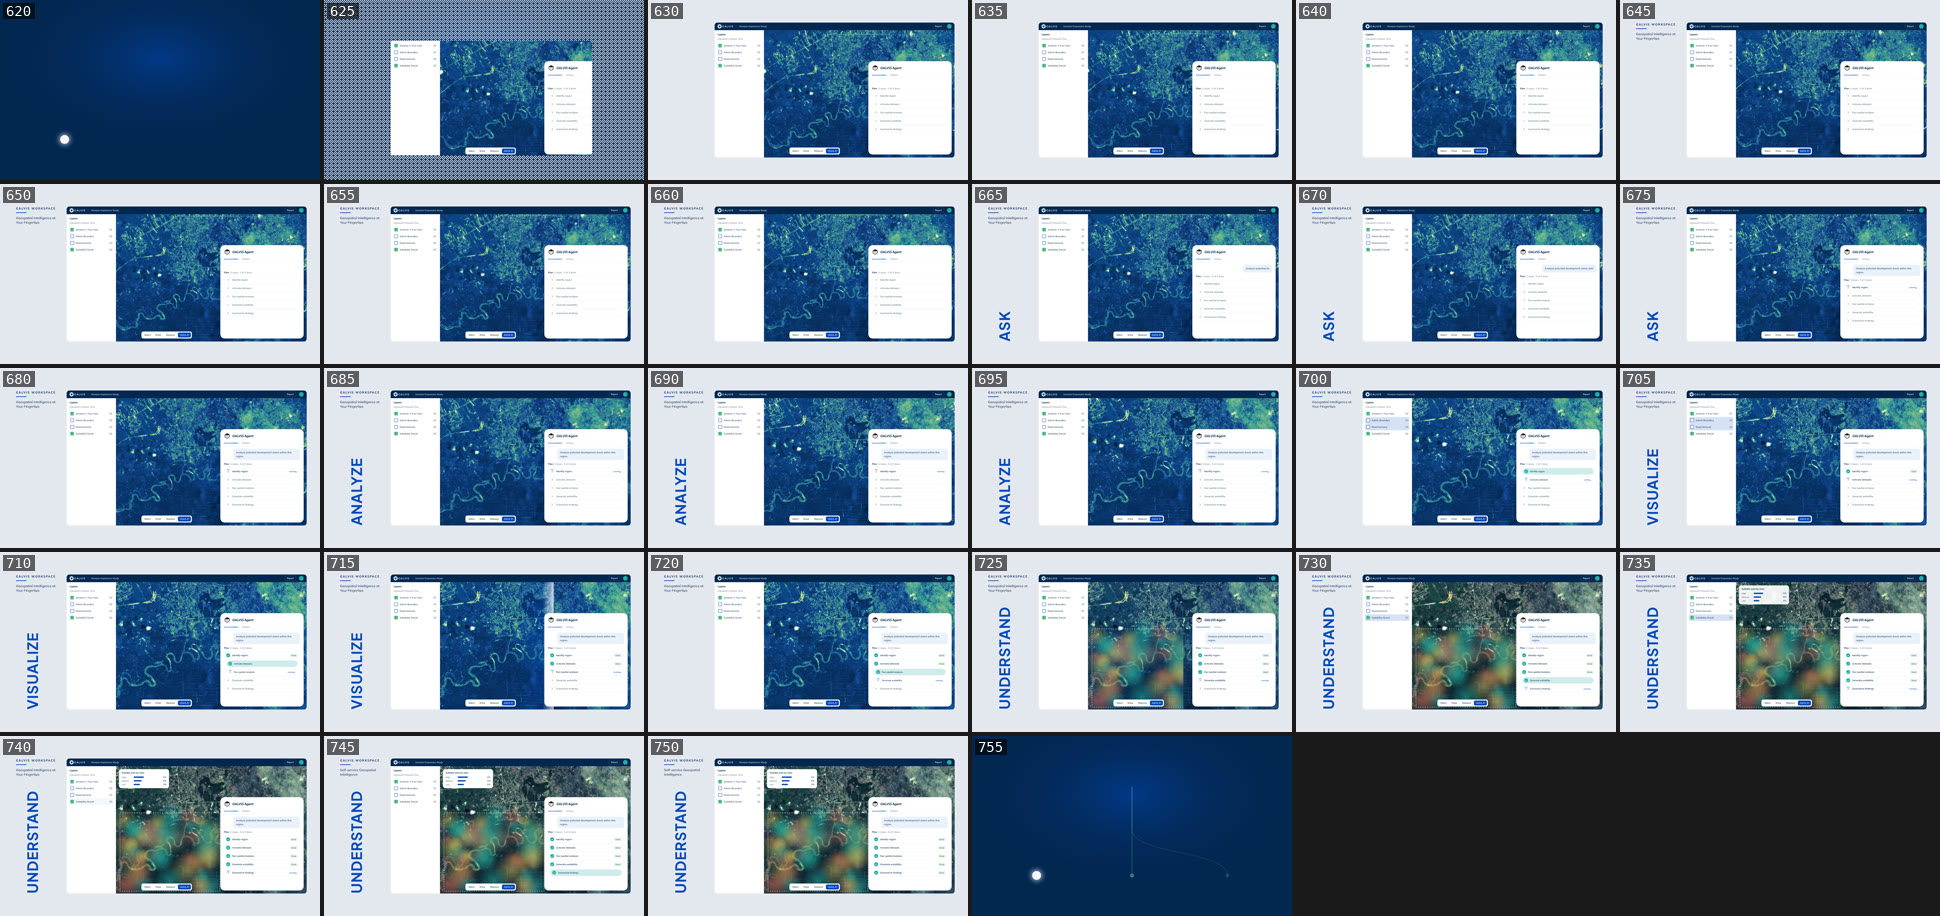
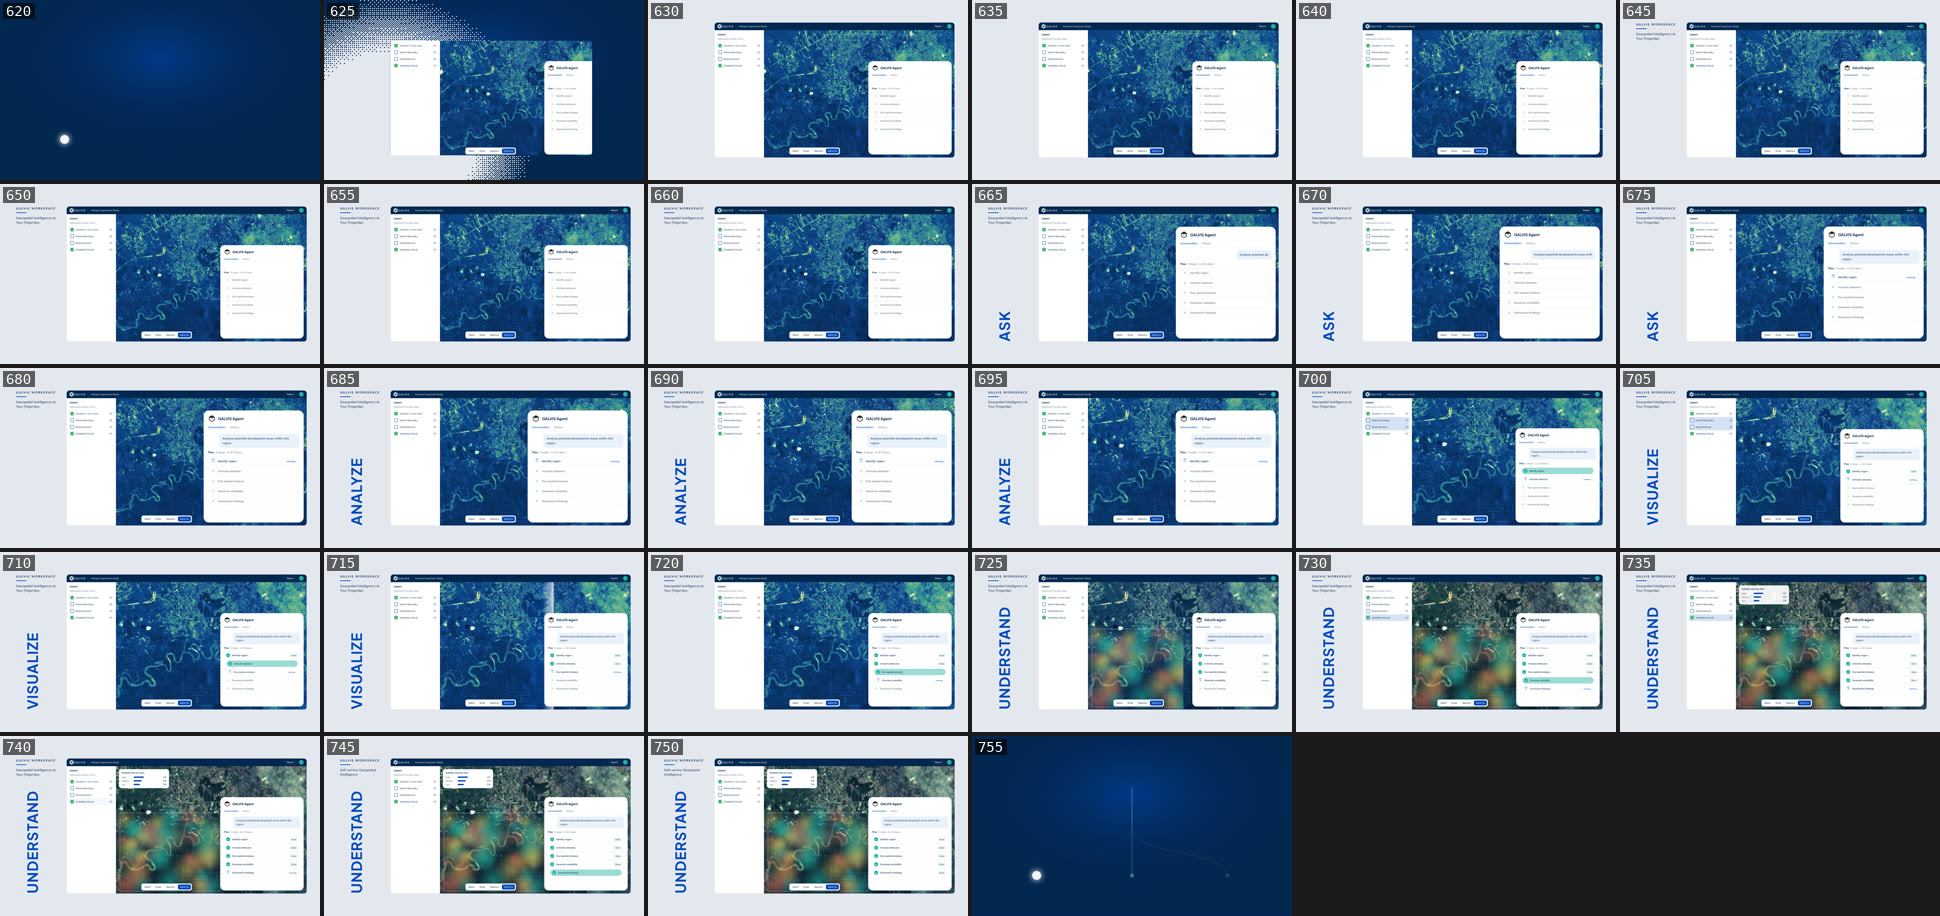
fix(galvis-film): jury round 1 — act 06
The navy dissolves radially from the disc. From ASK the agent panel lifts 1.2× while it plans and
settles on VISUALIZE (the dithered map is never scaled); finished steps flash teal at 0.45 and their
badges pop.

Claude-Session: https://claude.ai/code/session_0187RN5xC2Ne3Dptw6LeZ6Ei

diff --git a/projects/galvis-launch-film/compositions/06-workspace.html b/projects/galvis-launch-film/compositions/06-workspace.html
@@ -108,6 +108,8 @@
           let lastCrop = '', lastResolve = -1;
           const apply = (t) => {
             ui.setTyped(Math.max(0, Math.min(prompt.length, Math.round((t - typeFrom) / 0.025))));
+            // ASK to VISUALIZE: the agent panel lifts while it plans; it settles as the map takes over on 70.0.
+            ui.setFocus(GV.since(t, A(34), 0.6) * (1 - GV.since(t, A(36) - 0.4, 0.6)));
             doneAt.forEach((d, i) => {
               if (t >= d) ui.setStep(i, 'done', GV.since(t, d, UI));
               else if (t >= startAt[i]) ui.setStep(i, 'running', GV.since(t, startAt[i], UI));
@@ -145,10 +147,11 @@
           const S = GV.CAM_END;
           const dark = GV.navyGlowCanvas(S);
           const curtainCtx = $('dark').getContext('2d');
-          const curtain = GV.mountCurtain($('dark'), curtainCtx.createPattern(dark, 'no-repeat'), 6);
+          const H0 = GV.HANDOFF.workspace;
+          // The navy opens radially from the disc: only a moving band is dithered, never the whole frame.
+          const curtain = GV.mountCurtain($('dark'), curtainCtx.createPattern(dark, 'no-repeat'), 6, { origin: [H0.cx, H0.cy] });
           $('arch').innerHTML = GV.architectureSvg({ lit: 'enrichment', scale: S });
 
-          const H0 = GV.HANDOFF.workspace;
           const disc = { x: H0.cx - H0.r, y: H0.cy - H0.r, w: 2 * H0.r, h: 2 * H0.r, r: H0.r };
           const full = { x: 400, y: 135, w: 1440, h: 810, r: 16 };
           const OPEN_FROM = 0, OPEN = 1.1, CLOSE_FROM = A(38, 2), CLOSE = 0.5; // collapses into the disc on 75.5

diff --git a/projects/galvis-launch-film/shared/gv.js b/projects/galvis-launch-film/shared/gv.js
@@ -663,9 +663,19 @@ var GV = (() => {
         }
         const row = stepRows[i];
         row.style.transform = status === "pending" ? "" : `scale(${(0.94 + 0.06 * k).toFixed(4)})`;
-        row.style.backgroundColor = status === "done" ? `rgba(31,175,161,${(0.22 * (1 - k)).toFixed(3)})` : "";
+        row.style.backgroundColor = status === "done" ? `rgba(31,175,161,${(0.45 * (1 - k)).toFixed(3)})` : "";
         const badge = row.querySelector(".gv-badge");
-        if (badge) badge.style.opacity = k.toFixed(3);
+        if (badge) {
+          badge.style.opacity = k.toFixed(3);
+          badge.style.transform = `scale(${(0.6 + 0.4 * k).toFixed(3)})`;
+        }
+      },
+      // The agent panel lifts toward the viewer (k 0..1: scale 1 → 1.2 about its bottom-right corner) so its
+      // plan reads; the dithered map behind it is never scaled.
+      setFocus(k) {
+        agent.style.transformOrigin = "100% 100%";
+        agent.style.transform = k > 0 ? `scale(${(1 + 0.2 * k).toFixed(4)})` : "";
+        agent.style.boxShadow = `0 ${(18 + 22 * k).toFixed(1)}px ${(60 + 60 * k).toFixed(1)}px rgba(3,39,80,${(0.14 + 0.16 * k).toFixed(3)})`;
       },
       setTyped(n) {
         bubble.textContent = state.prompt.slice(0, n);

diff --git a/projects/galvis-launch-film/shared/ui/workspace.js b/projects/galvis-launch-film/shared/ui/workspace.js
@@ -107,9 +107,16 @@ export function renderWorkspace(host, state, { prefix = '' } = {}) {
       }
       const row = stepRows[i];
       row.style.transform = status === 'pending' ? '' : `scale(${(0.94 + 0.06 * k).toFixed(4)})`;
-      row.style.backgroundColor = status === 'done' ? `rgba(31,175,161,${(0.22 * (1 - k)).toFixed(3)})` : '';
+      row.style.backgroundColor = status === 'done' ? `rgba(31,175,161,${(0.45 * (1 - k)).toFixed(3)})` : '';
       const badge = row.querySelector('.gv-badge');
-      if (badge) badge.style.opacity = k.toFixed(3);
+      if (badge) { badge.style.opacity = k.toFixed(3); badge.style.transform = `scale(${(0.6 + 0.4 * k).toFixed(3)})`; }
+    },
+    // The agent panel lifts toward the viewer (k 0..1: scale 1 → 1.2 about its bottom-right corner) so its
+    // plan reads; the dithered map behind it is never scaled.
+    setFocus(k) {
+      agent.style.transformOrigin = '100% 100%';
+      agent.style.transform = k > 0 ? `scale(${(1 + 0.2 * k).toFixed(4)})` : '';
+      agent.style.boxShadow = `0 ${(18 + 22 * k).toFixed(1)}px ${(60 + 60 * k).toFixed(1)}px rgba(3,39,80,${(0.14 + 0.16 * k).toFixed(3)})`;
     },
     setTyped(n) {
       bubble.textContent = state.prompt.slice(0, n);
